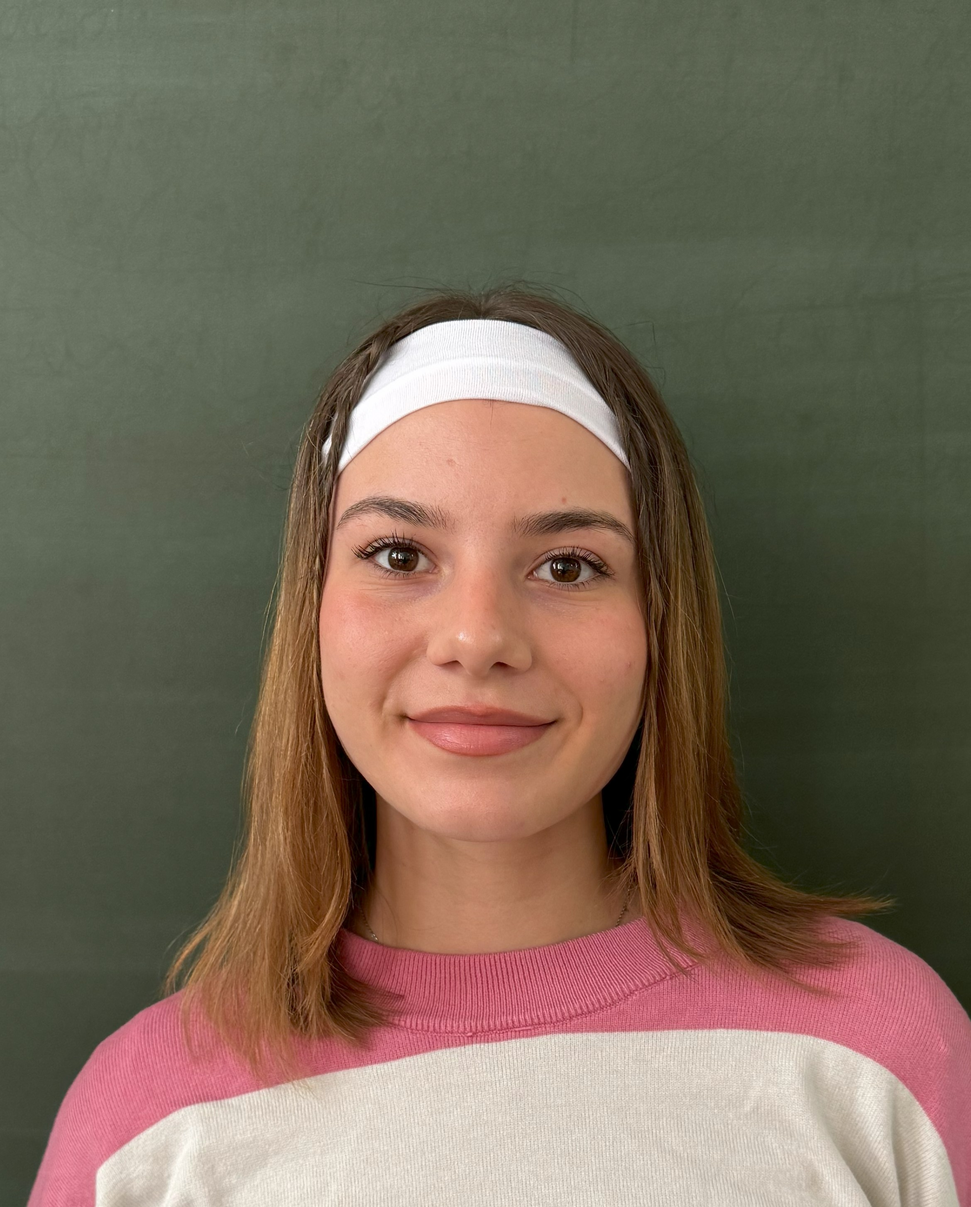
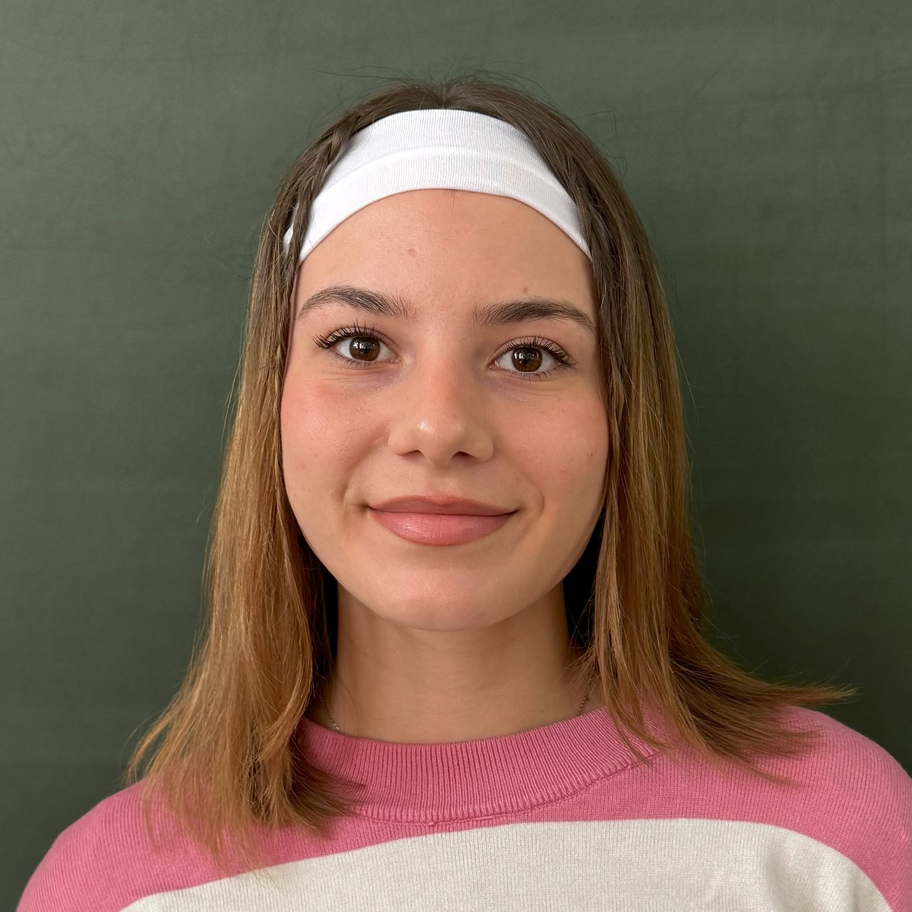
modification photo equipe

diff --git a/equipe.html b/equipe.html
@@ -20,10 +20,9 @@
 		<header>
 			<section class="py-5">
 				<div id="navbar-container"></div>
-				<script src="/js/navbar.js"></script>	
+				<script src="/js/navbar.js"></script>
 			</section>
 		</header>
-
 	</head>
 	<body>
 		<!-- Section principale -->
@@ -36,8 +35,8 @@
 								<div class="lc-block mb-4">
 									<h1 class="display-2 mb-0 text-center"><b>Notre Équipe</b></h1>
 									<p>
-										Nous sommes un groupe d'étudiants de la Faculté Polytechnique de Mons travaillant ensemble pour ce
-										projet. Voici les membres de notre équipe :
+										Nous sommes un groupe d'étudiants de la Faculté Polytechnique de Mons travaillant ensemble pour ce projet.
+										Voici les membres de notre équipe :
 									</p>
 								</div>
 								<!-- /lc-block -->
@@ -126,13 +125,7 @@
 								</div>
 								<!-- /lc-block -->
 								<div class="lc-block">
-									<img
-										alt="Ye Hao"
-										class="rounded-circle mb-3"
-										src="images/Hao.jpg"
-										style="height: 10vh"
-										loading="lazy"
-									/>
+									<img alt="Ye Hao" class="rounded-circle mb-3" src="images/Hao.jpg" style="height: 10vh" loading="lazy" />
 									<div>
 										<p>Description Hao</p>
 									</div>
@@ -145,10 +138,17 @@
 						<div class="card col-md-4 mt-100">
 							<div class="card-content">
 								<div class="card-body p-0">
-									<div class="profile"> <img src="images/hugo.jpg"> </div>
-									<div class="card-title mt-4"> Hugo DARVAI<br /> <small>titre</small> </div>
+									<div class="profile"><img src="images/hugo.jpeg" /></div>
+									<div class="card-title mt-4">
+										Hugo DARVAI<br />
+										<small>titre</small>
+									</div>
 									<div class="card-subtitle">
-										<p> <small class="text-muted"> 	Étudiant en Informatique et gestion à spécialité Intelligence Artificielle	</small> </p>
+										<p>
+											<small class="text-muted">
+												Étudiant en Informatique et gestion à spécialité Intelligence Artificielle
+											</small>
+										</p>
 									</div>
 								</div>
 							</div>
@@ -156,10 +156,17 @@
 						<div class="card col-md-4 mt-100">
 							<div class="card-content">
 								<div class="card-body p-0">
-									<div class="profile"> <img src="images/aysel.jpg"> </div>
-									<div class="card-title mt-4"> Aysel MUSCATO<br /> <small>titre</small> </div>
+									<div class="profile"><img src="images/aysel.jpg" /></div>
+									<div class="card-title mt-4">
+										Aysel MUSCATO<br />
+										<small>titre</small>
+									</div>
 									<div class="card-subtitle">
-										<p> <small class="text-muted"> 	Étudiant en Informatique et gestion à spécialité Intelligence Artificielle	</small> </p>
+										<p>
+											<small class="text-muted">
+												Étudiant en Informatique et gestion à spécialité Intelligence Artificielle
+											</small>
+										</p>
 									</div>
 								</div>
 							</div>
@@ -167,10 +174,17 @@
 						<div class="card col-md-4 mt-100">
 							<div class="card-content">
 								<div class="card-body p-0">
-									<div class="profile"> <img src="https://res.cloudinary.com/dxfq3iotg/image/upload/v1574583246/AAA/2.jpg"> </div>
-									<div class="card-title mt-4"> Marion ROBETTE<br /> <small>titre</small> </div>
+									<div class="profile"><img src="https://res.cloudinary.com/dxfq3iotg/image/upload/v1574583246/AAA/2.jpg" /></div>
+									<div class="card-title mt-4">
+										Marion ROBETTE<br />
+										<small>titre</small>
+									</div>
 									<div class="card-subtitle">
-										<p> <small class="text-muted"> 	Étudiante en Informatique et gestion à spécialité Intelligence Artificielle	</small> </p>
+										<p>
+											<small class="text-muted">
+												Étudiante en Informatique et gestion à spécialité Intelligence Artificielle
+											</small>
+										</p>
 									</div>
 								</div>
 							</div>
@@ -178,10 +192,17 @@
 						<div class="card col-md-4 mt-100">
 							<div class="card-content">
 								<div class="card-body p-0">
-									<div class="profile"> <img src="images/Hao.jpg"> </div>
-									<div class="card-title mt-4"> Hao YE<br /> <small>titre</small> </div>
+									<div class="profile"><img src="images/Hao.jpg" /></div>
+									<div class="card-title mt-4">
+										Hao YE<br />
+										<small>titre</small>
+									</div>
 									<div class="card-subtitle">
-										<p> <small class="text-muted"> 	Étudiant en Informatique et gestion à spécialité Intelligence Artificielle	</small> </p>
+										<p>
+											<small class="text-muted">
+												Étudiant en Informatique et gestion à spécialité Intelligence Artificielle
+											</small>
+										</p>
 									</div>
 								</div>
 							</div>
@@ -189,9 +210,6 @@
 					</div>
 				</div>
 			</div>
-
-
-			
 		</main>
 
 		<footer>
